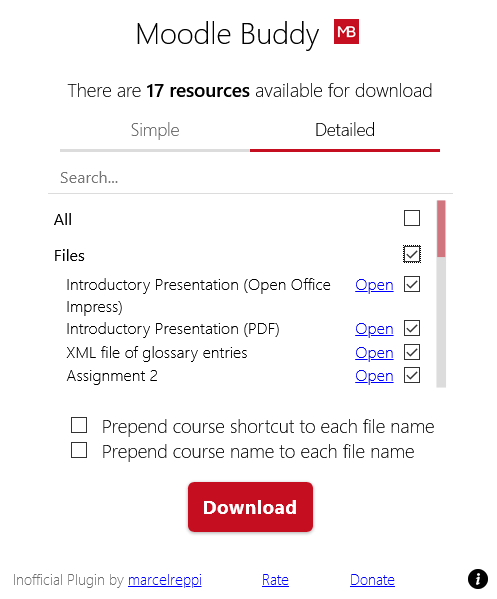
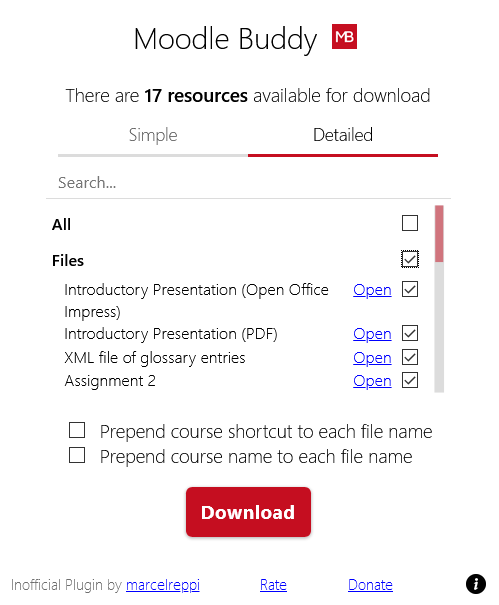
update styling and screenshot

diff --git a/extension/popup/components/DetailedSelection.vue b/extension/popup/components/DetailedSelection.vue
@@ -239,7 +239,7 @@ label.resource {
 label.category {
   display: grid;
   grid-template-columns: 10fr 1fr;
-  font-weight: 500;
+  font-weight: 600;
   padding: 5px 0px;
 }
 
